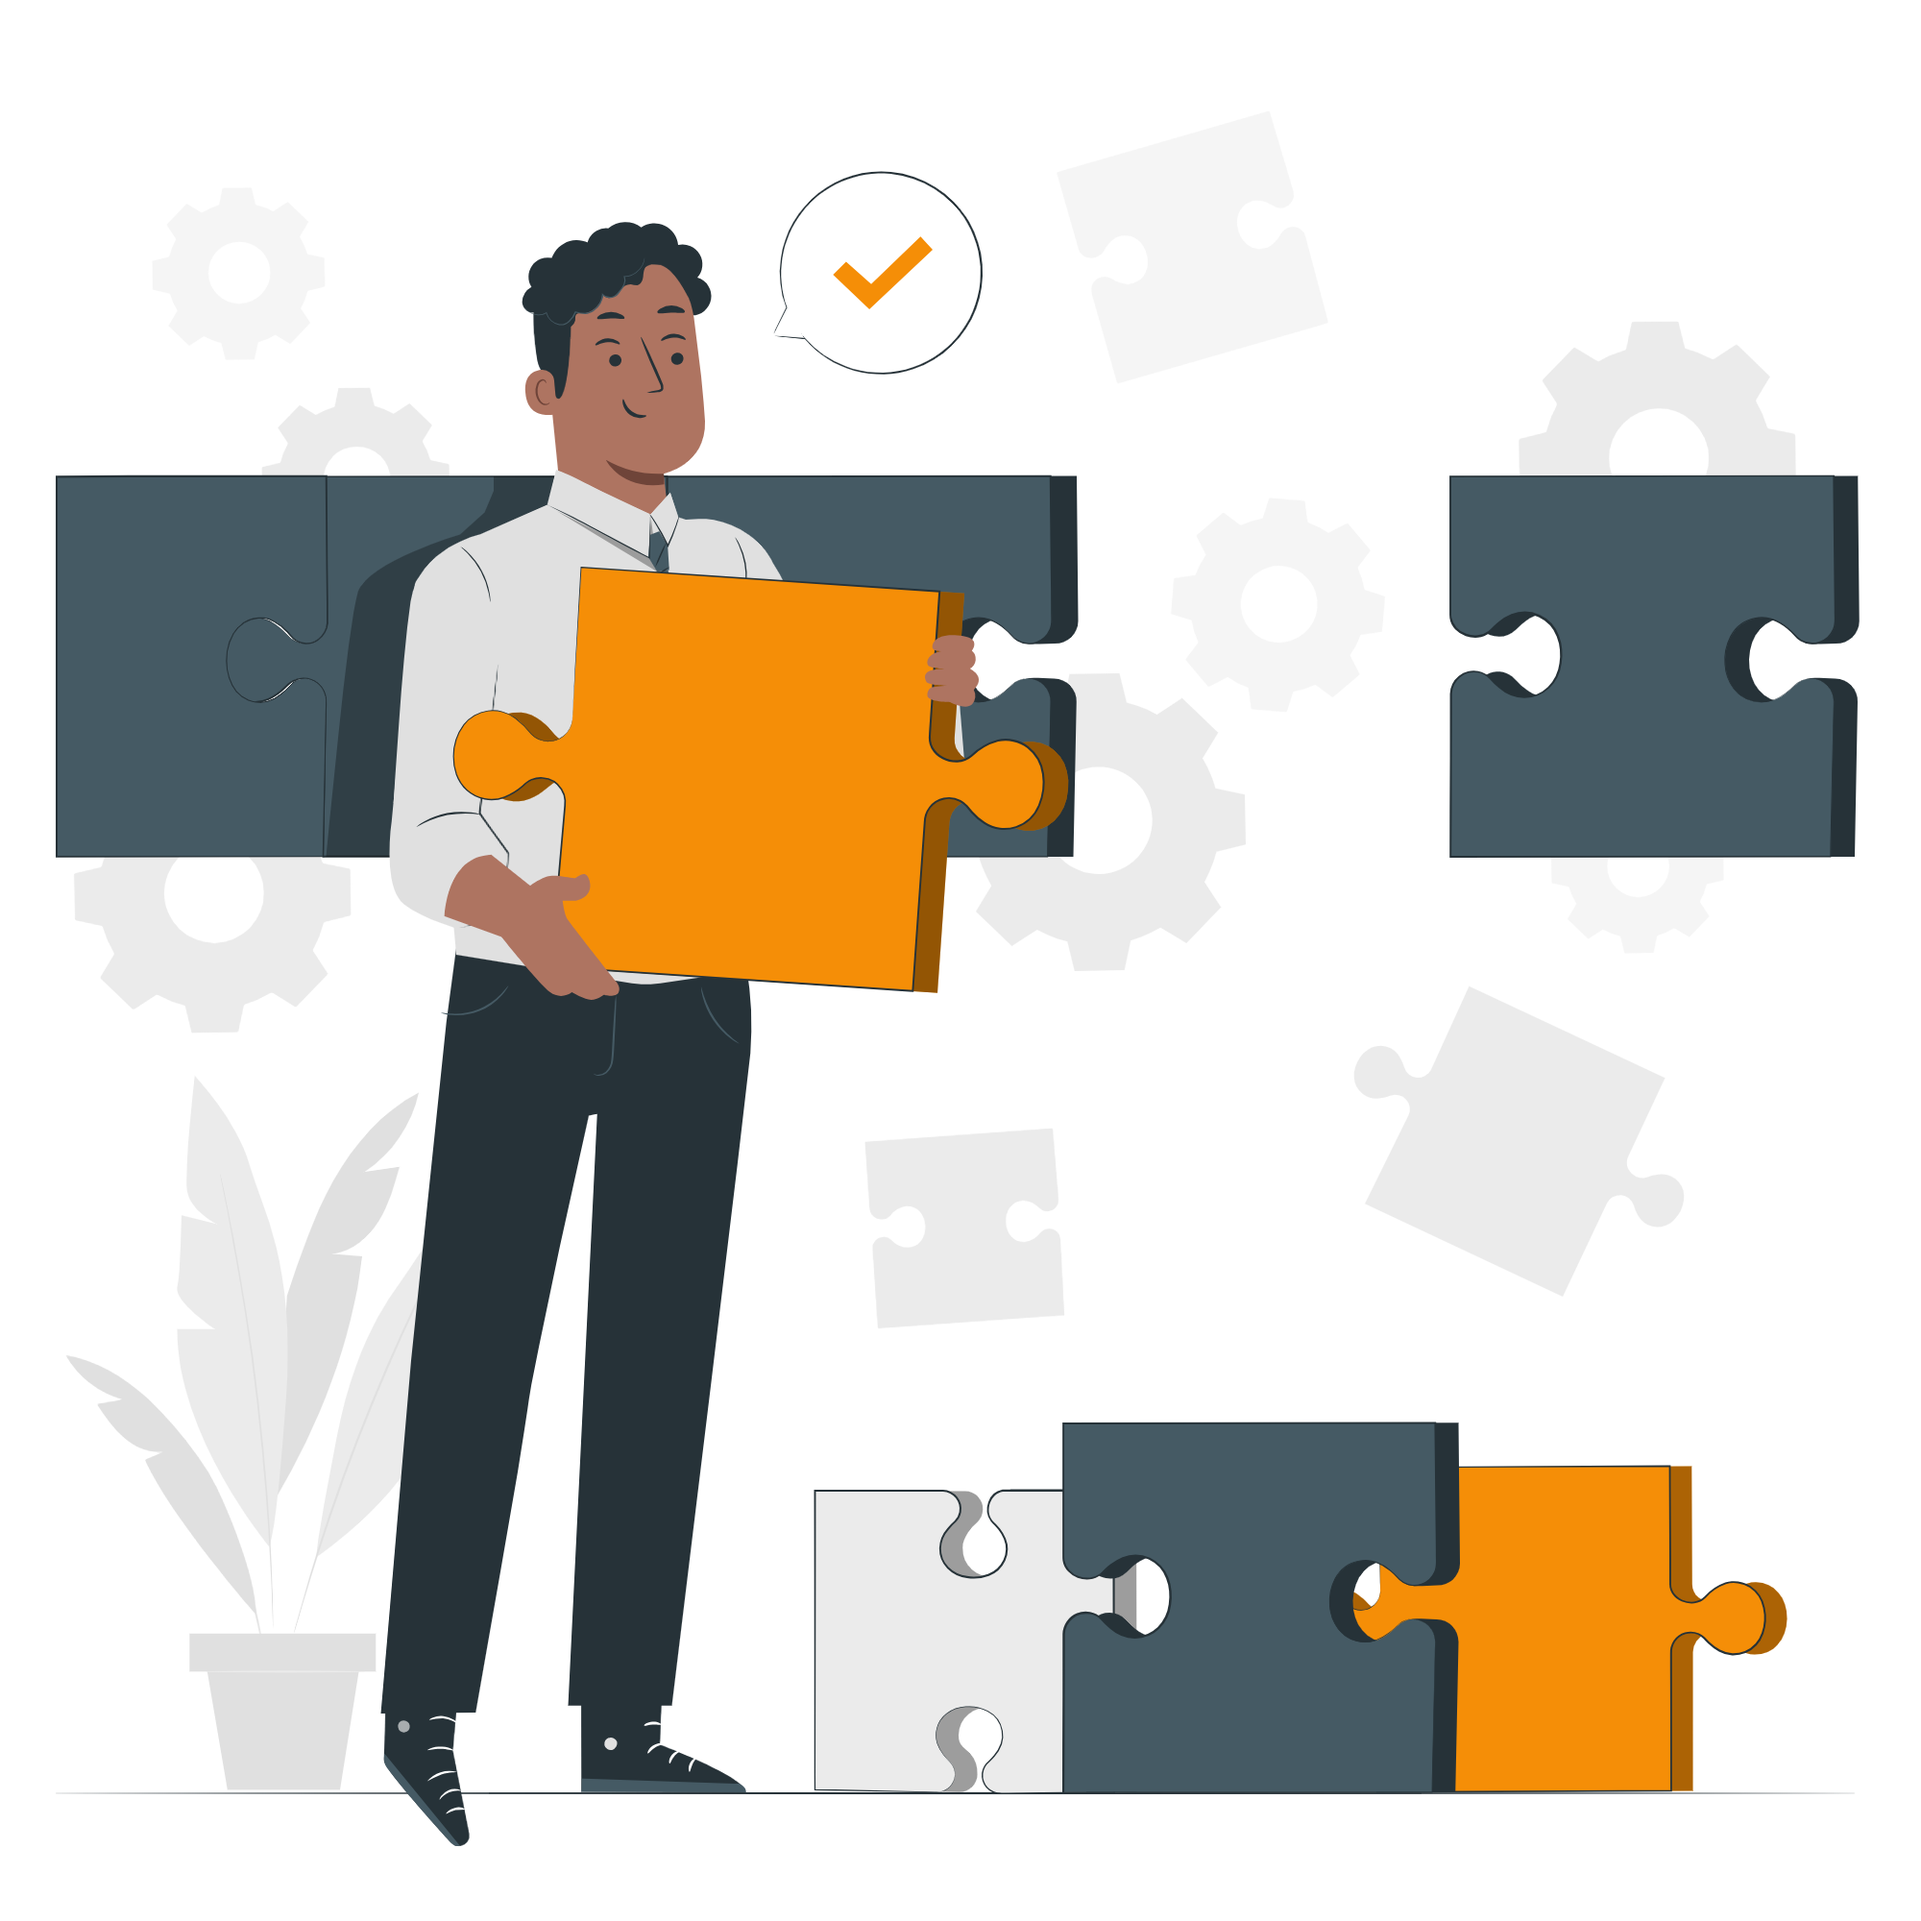
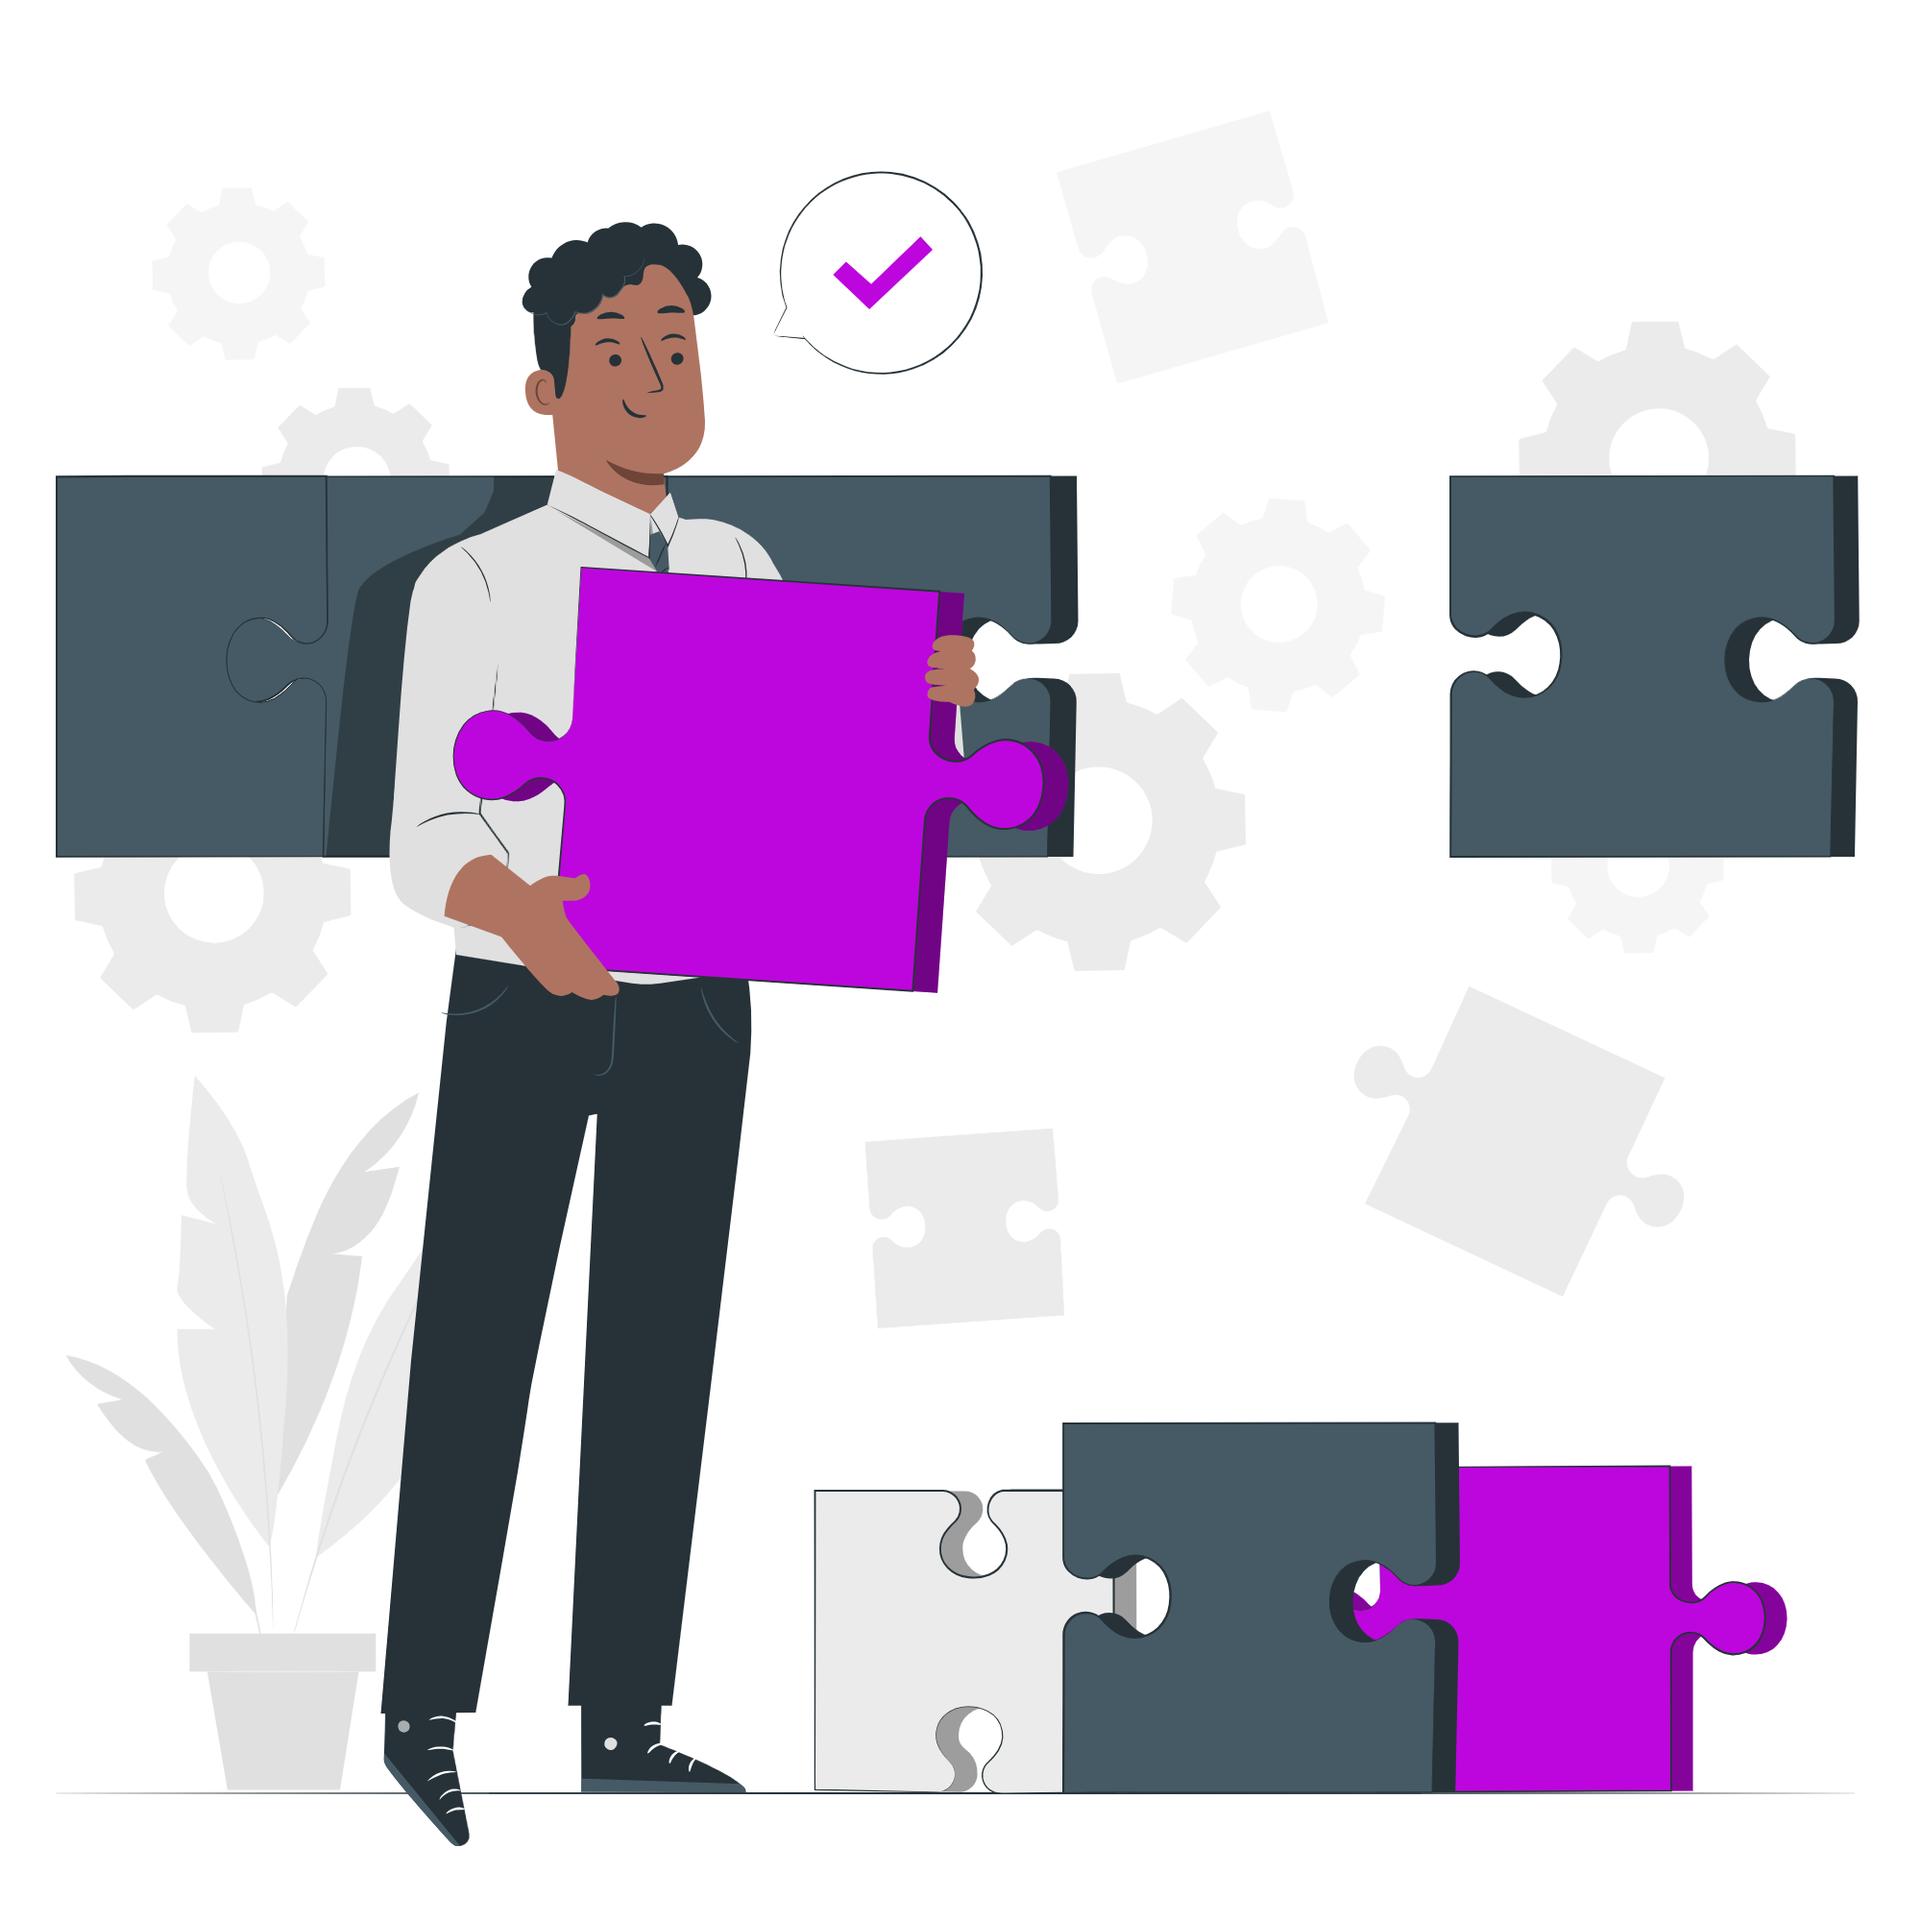
Adição das alterações solicitadas pela professora de pi, mudança de cores e correção da responsividade

Changed region(s): [[0.217, 0.279, 0.558, 0.527], [0.713, 0.744, 0.93, 0.93], [0.434, 0.124, 0.496, 0.155]]

diff --git a/css/index.css b/css/index.css
@@ -44,7 +44,7 @@ body{
 }
 
 .login-button {
-  background-color: #F58E07;
+  background-color: #670478;
 }
 
 .login-button:hover {
@@ -54,13 +54,13 @@ body{
 }
 
 .cadastro-button{
-  color: #F58E07;
+  color: #670478;
   background-color: whitesmoke;
 }
 
-.cadastro-button:hover {
+.buttons a:hover {
   transform: scale(1.05);
-  box-shadow: 0 0 15px rgba(245, 142, 7, 0.2);
+  box-shadow: 0 0 15px rgba(255, 255, 255, 0.2);
   filter: brightness(1.03);
 }
 
@@ -95,7 +95,7 @@ body{
   font-size: 1.3rem;
   margin-top: 5%;
   margin-bottom: 3vh;
-  color: #F58E07;
+  color: #BD06DD;
 }
 
 .card p {
@@ -105,7 +105,7 @@ body{
 }
 
 .carousel {
-  width: 100%;
+  width: 90%;
 }
 
 .features {
@@ -116,7 +116,7 @@ body{
 .features .container {
   display: flex;
   flex-wrap: wrap;
-  justify-content: space-between;
+  justify-content: center;
 }
 
 .features h2 {
@@ -142,7 +142,7 @@ body{
 }
 
 .feature h3 {
-  color: #F58E07;
+  color: #BD06DD  ;
   font-size: 1.3rem;
 margin: 2vh 0 2vh 0;
 }
@@ -174,11 +174,12 @@ margin: 2vh 0 2vh 0;
   right: 20px;
 }
 
-@media (max-width: 999px) {
+@media (max-width: 768px) {
 
   .buttons a{
     padding: 4% 14%;
-    font-size: 1.5rem;
+    font-size: 1.4rem;
+    width: fit-content;
   }
 
   .cards {
@@ -199,12 +200,28 @@ margin: 2vh 0 2vh 0;
     font-size: 1.5rem;
   }
 
+  .features .container h2{
+     font-size: 1rem;
+  }
+
   .feature h3{
-    font-size: 2rem;
+    font-size: 0.8rem;
   }
 
   .feature p{
-    font-size: 1.8rem;
+    font-size: 0.6rem;
   }
+
+  .banner .container h1{
+    font-size: 2rem;
+      }
+    
+      .card h4{
+        font-size: 0.9rem;
+      }
+    
+      .card p{
+        font-size: 0.7rem;
+      }
 
 }

diff --git a/index.html b/index.html
@@ -2,6 +2,7 @@
 <html>
 
 <head>
+  <meta name="viewport" content="width=device-width, initial-scale=1.0">
   <link rel="stylesheet" type="text/css" href="css/index.css">
   <link rel="stylesheet" type="text/css" href="css/main.css">
   <link rel="stylesheet" type="text/css" href="https://cdn.jsdelivr.net/npm/slick-carousel@1.8.1/slick/slick.css">
@@ -137,9 +138,6 @@
 
   <div class="footer">
     <div class="container">
-      <div class="fasttotem-logo">
-        <img src="assets/FastToten - Logo.png" alt="Fast Totem Logo">
-      </div>
       <div class="copyright">
         <p>&copy; 2023 Fast Totem. Todos os direitos reservados.</p>
       </div>
@@ -155,3 +153,4 @@
 <script src="https://cdn.jsdelivr.net/npm/slick-carousel@1.8.1/slick/slick.min.js"></script>
 <script src="js/index.js"></script>
 <script src="js/menu.js"></script>
+

diff --git a/css/main.css b/css/main.css
@@ -99,7 +99,7 @@ h1, h2, h3, h4, p {
 }
 
 .navbar a:hover {
-  border-bottom: solid #F58E07 3.5px;
+  border-bottom: solid #670478 3.5px;
 }
 
 .menu-toggle {
@@ -162,7 +162,6 @@ h1, h2, h3, h4, p {
   align-self: center;
 }
 
-/* FOOTER */
 .footer {
   background-color: #2D2D2D;
   padding: 20px 0;
@@ -199,7 +198,7 @@ h1, h2, h3, h4, p {
   }
 }
 
-@media (max-width: 999px) {
+@media (max-width: 768px) {
 
   .banner .container{
     padding: 12vh 5vw 8vw 5vw;

diff --git a/ajuda.html b/ajuda.html
@@ -77,9 +77,6 @@
 
     <div class="footer">
         <div class="container">
-            <div class="fasttotem-logo">
-                <img src="assets/FastToten - Logo.png" alt="Fast Totem Logo">
-            </div>
             <div class="copyright">
                 <p>&copy; 2023 Fast Totem. Todos os direitos reservados.</p>
             </div>

diff --git a/sobre.html b/sobre.html
@@ -132,9 +132,6 @@
 
     <div class="footer">
       <div class="container">
-        <div class="fasttotem-logo">
-          <img src="assets/FastToten - Logo.png" alt="Fast Totem Logo" />
-        </div>
         <div class="copyright">
           <p>&copy; 2023 Fast Totem. Todos os direitos reservados.</p>
         </div>

diff --git a/js/index.js b/js/index.js
@@ -3,7 +3,7 @@ $(document).ready(function(){
       slidesToShow: 1,
       slidesToScroll: 1,
       autoplay: true,
-      autoplaySpeed: 5000,
+      autoplaySpeed: 2000,
       arrows: true,
       dots: true,
       prevArrow: '<button class="slick-prev" aria-label="Previous" type="button">Previous</button>',
